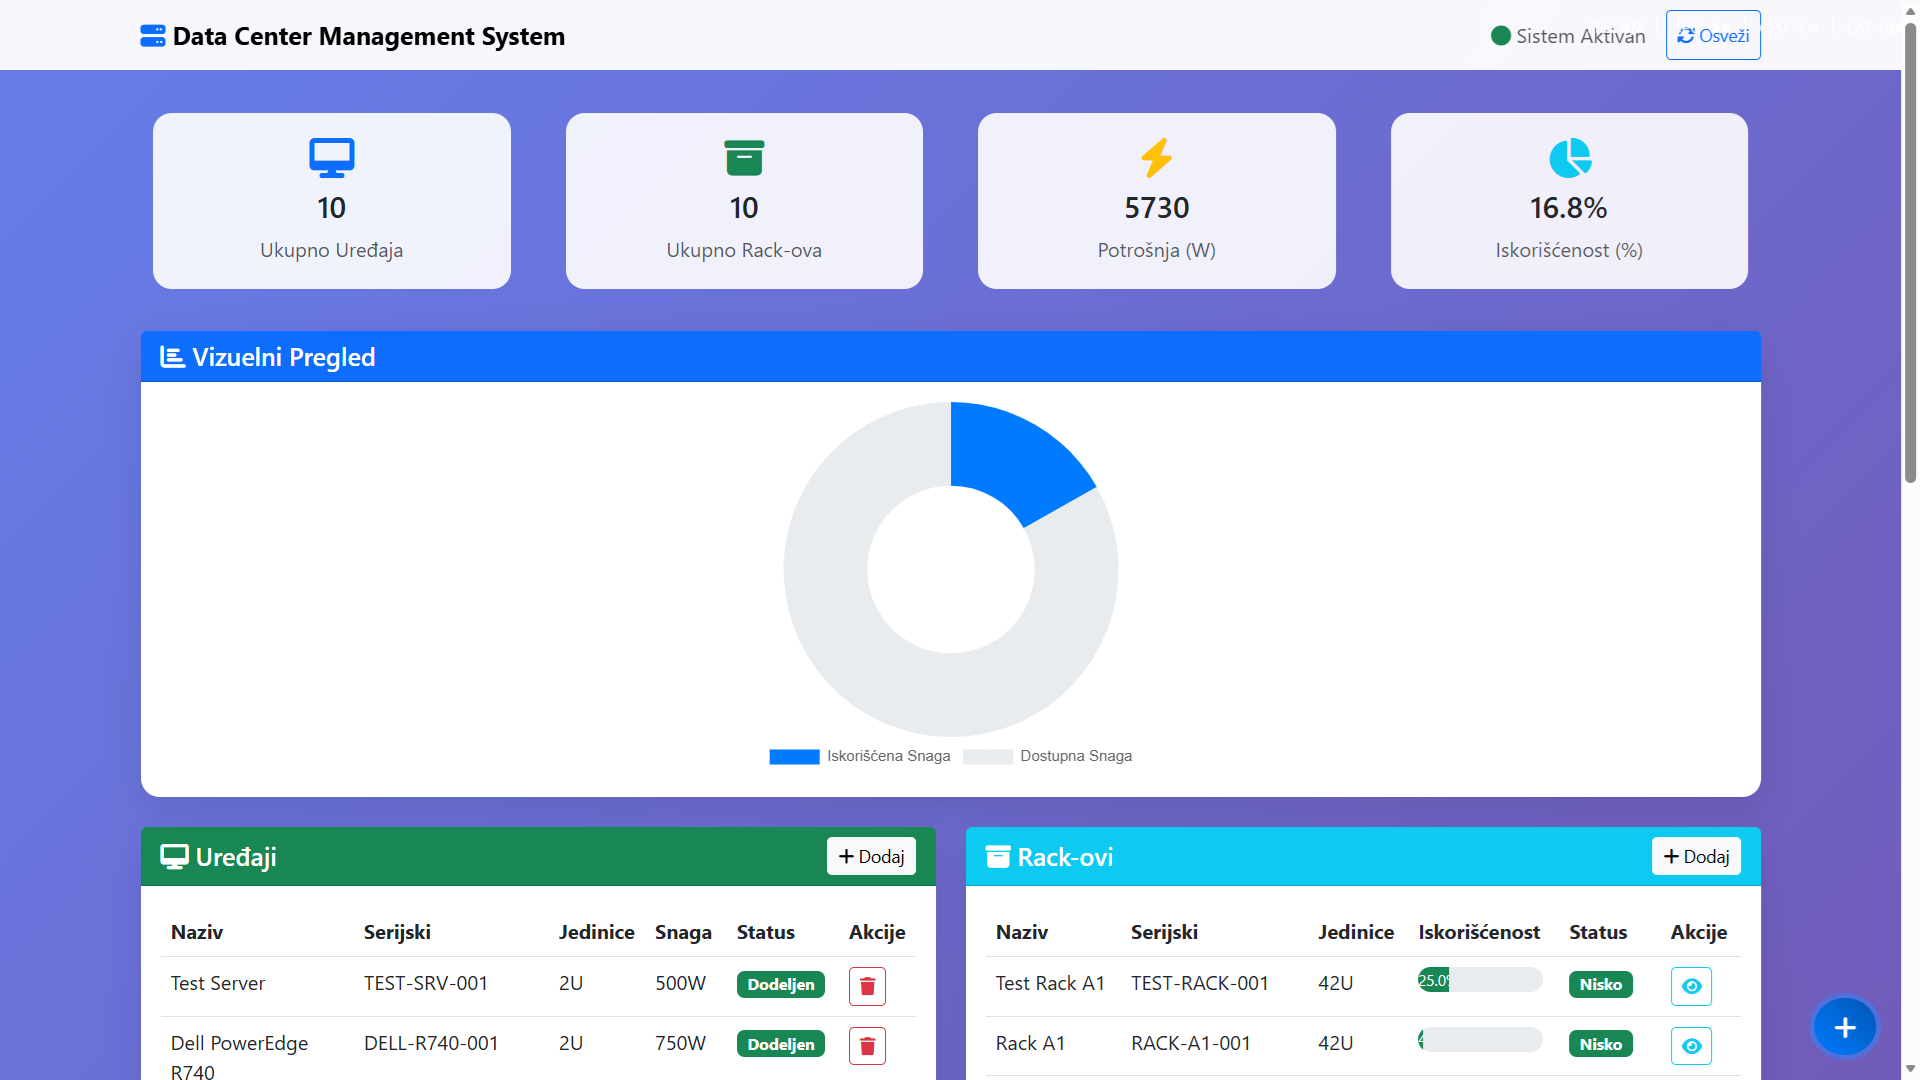
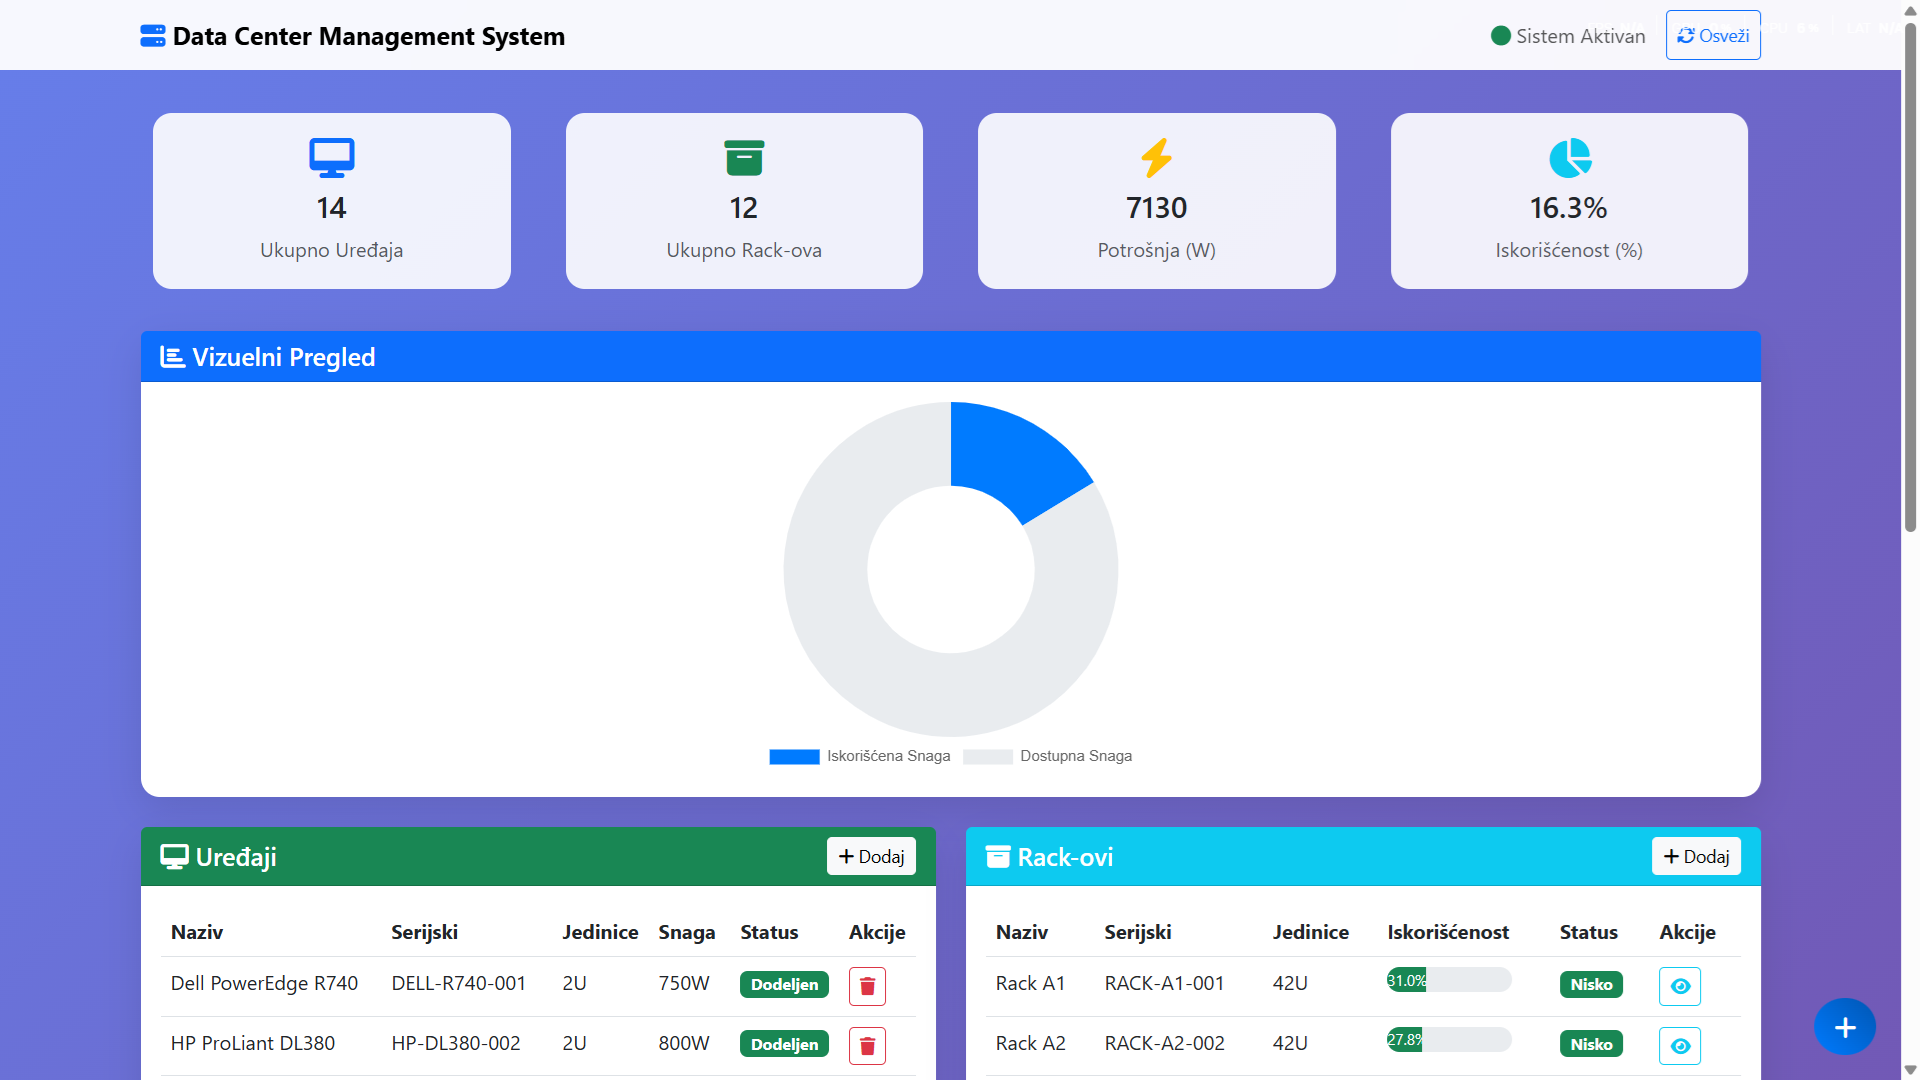
docs: final README wording and screenshot update for 24.02 submission

diff --git a/README.md b/README.md
@@ -20,13 +20,16 @@ Swagger: `http://localhost:8000/docs`
 Seed nije obavezan za pokretanje API-ja, ali je **preporučen** zbog demo podataka
 (baza `datacenter.db` je u `.gitignore` i može biti prazna).
 
-Opciono (preporučeno):
+Za komisiju se preporučuje da odmah nakon podizanja API-ja pokrene seed
+(`POST /api/v1/seed`) kako bi svi endpoint-i imali podatke za demonstraciju.
+
+Jednokratno (preporučeno):
 
 ```bash
 curl -X POST http://localhost:8000/api/v1/seed
 ```
 
-Ako `curl` nije dostupan:
+Ako `curl` nije dostupan, seed može da se pokrene kroz Swagger UI:
 
 - otvoriti `http://localhost:8000/docs`
 - pokrenuti `POST /api/v1/seed` (**Try it out** → **Execute**)
@@ -140,6 +143,7 @@ curl -X POST http://localhost:8000/api/v1/seed
 ```
 
 > Seed je namenjen brzom punjenju test podacima za komisiju.
+> Ako je baza već seedovana, API seed endpoint vraća `409 Database already seeded`.
 
 ---
 
@@ -284,4 +288,4 @@ wsl --update
 ## 12) Verzija
 
 - API verzija: `1.0.0`
-- Datum finalne pripreme: 23.02.2026.
+- Datum finalne pripreme: 24.02.2026.
